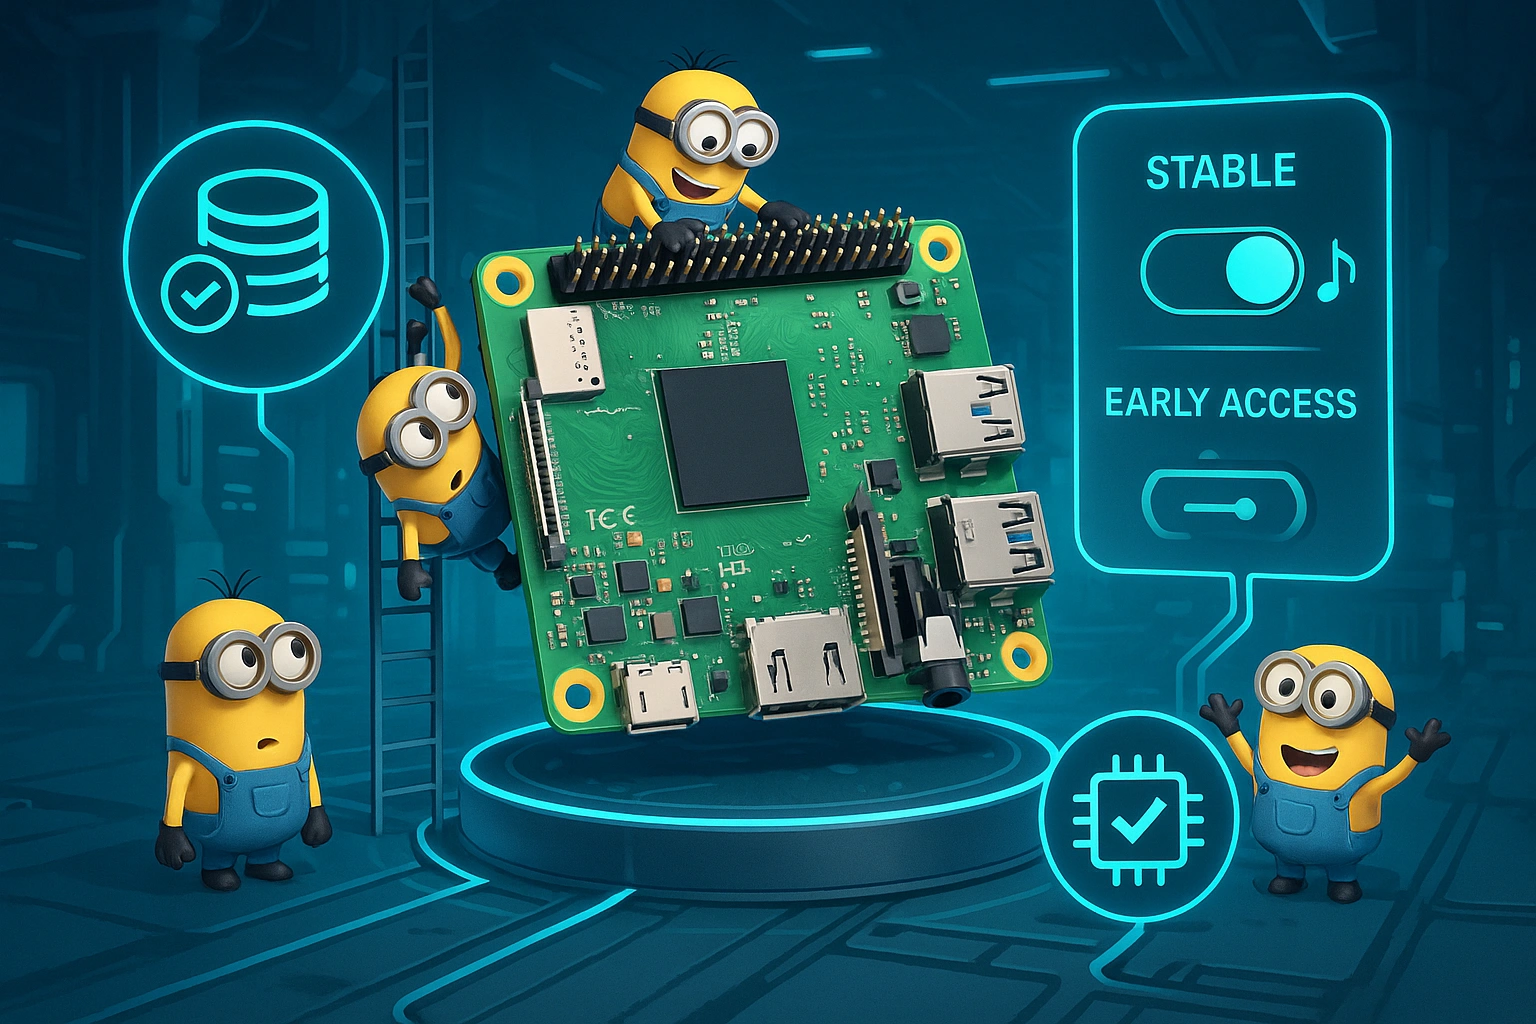
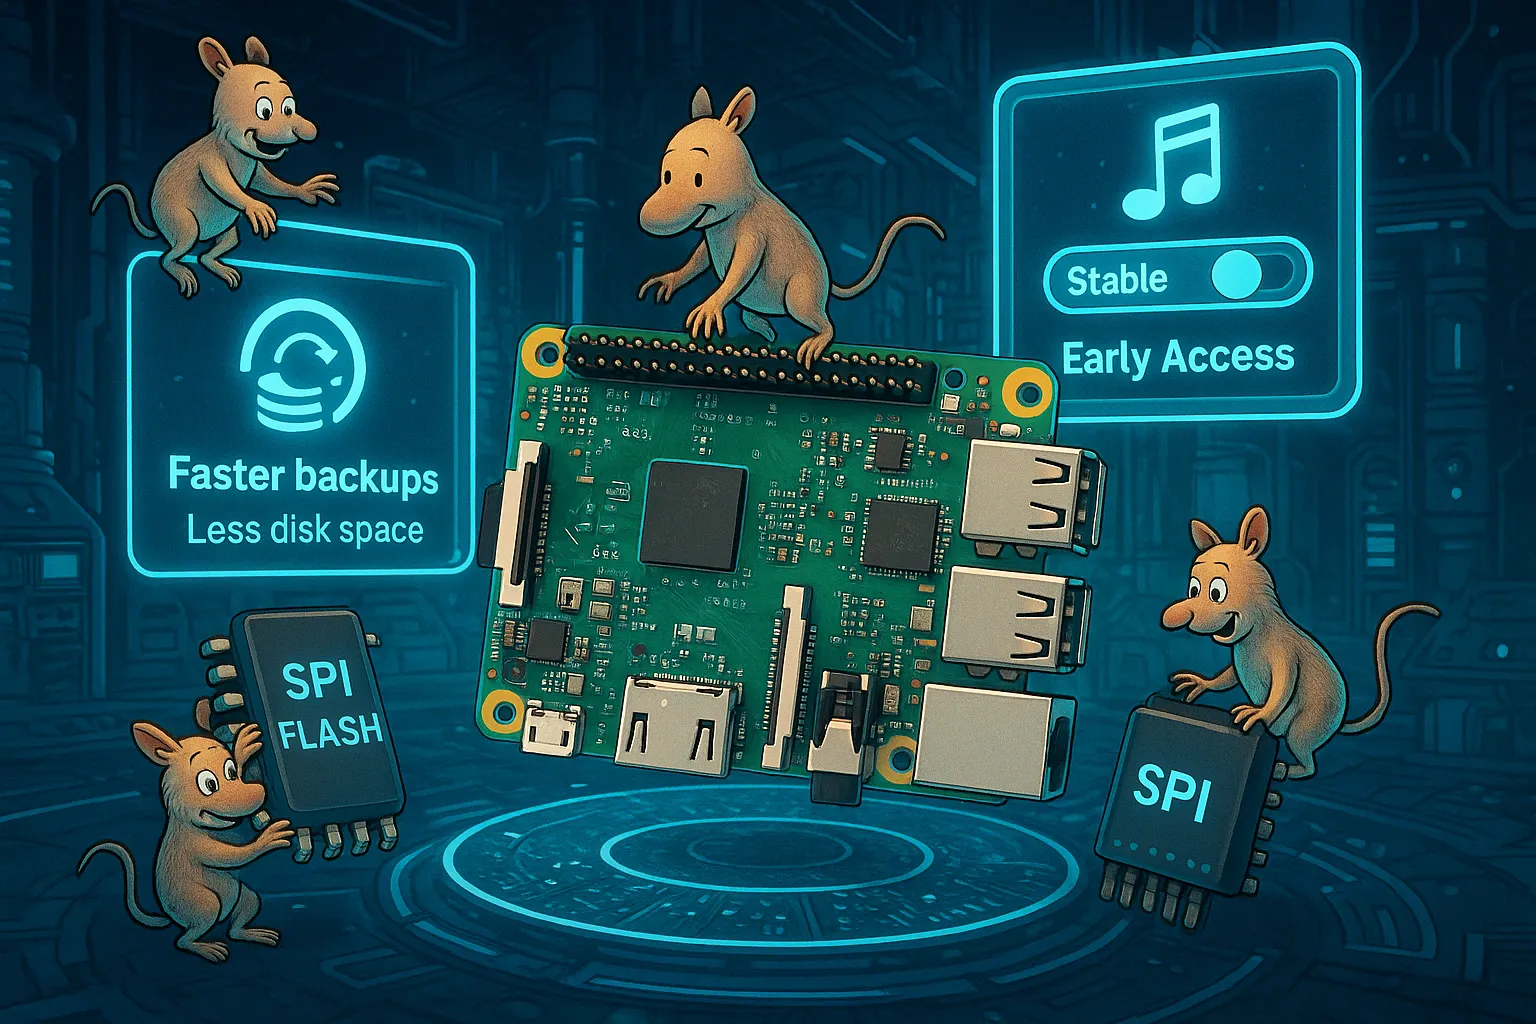
Replace release image
do use one without possibly copyright violation

diff --git a/docs/releases/v9_17.md b/docs/releases/v9_17.md
@@ -1,7 +1,7 @@
 ---
 title: DietPi v9.17
 description: Release notes for DietPi v9.17 from September 2025
-image: https://dietpi.com/docs/assets/images/dietpi-release-v9_17.webp
+image: https://dietpi.com/docs/assets/images/dietpi-release-v9_17.webp?v=2
 ---
 
 # Release Notes
@@ -12,7 +12,7 @@ image: https://dietpi.com/docs/assets/images/dietpi-release-v9_17.webp
 
 The **September 20th, 2025** release of **DietPi v9.17** comes with faster and less disk space consuming DietPi backups, a Roon Server early access toggle, solved SPI storage flashing issues, and more.
 
-![The image presents a single-board computer within a futuristic facility setting in a 3D comic art style. 3 pregnant symbols around the SBC show a storage with a tick, a stable/early-access toggle with a music note, and a microchip with a tick on it respectively. 4 minions are around, climbing a ladder, touching the GPIO pins of the SBC, and cheering respectively.](../assets/images/dietpi-release-v9_17.webp "Futuristic OS Launch"){: width="1536" height="1024" loading="lazy"}
+![The image presents a single-board computer within a futuristic facility setting in a 3D comic art style. 3 pregnant symbols around the SBC show a storage with a tick, a stable/early-access toggle with a music note, and a microchip with a tick on it respectively. 4 minions are around, climbing a ladder, touching the GPIO pins of the SBC, and cheering respectively.](../assets/images/dietpi-release-v9_17.webp?v=2 "Futuristic OS Launch"){: width="1536" height="1024" loading="lazy"}
 
 !!! cite "\"Futuristic OS Launch\" by ChatGPT/Sora"
 
